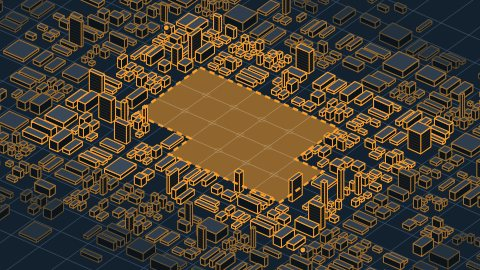
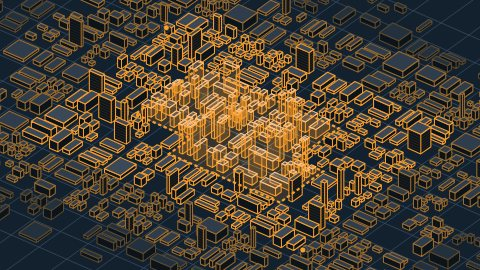
Docs and pictures follow: Rubik and Assistant, the thin line, glass buttons
DESIGN.md's front matter and prose, PRODUCT.md and the design-system notes now name Rubik and
Assistant, the 1.5px line, the 10px dot and the glass buttons (with a capsule radius). The
home page's filter toggle is glass like every other button. The book's downloadable
backgrounds are drawn again: the plan one now shows its proposed buildings see-through.

Changed region(s): [[0.2812, 0.2074, 0.7188, 0.7704], [0.625, 0.9185, 0.6562, 0.9481], [0.3438, 0.0889, 0.375, 0.1185]]

diff --git a/wp-content/themes/log/src/styles/buttons.css b/wp-content/themes/log/src/styles/buttons.css
@@ -10,7 +10,7 @@
  * the legend; --k-edge the thin edge. With no backdrop filter, or for a visitor who asked for less transparency,
  * the glass is simply solid.
  */
-.btn, .menu-toggle, .gantry__close {
+.btn, .menu-toggle, .gantry__close, .hero-filter-toggle {
   --k-tint: 84%;
   --k-rim: color-mix(in srgb, var(--night-ink) 50%, transparent);
   --k-edge: color-mix(in srgb, var(--night-ink) 16%, transparent);
@@ -25,17 +25,17 @@
     0 8px 20px -14px color-mix(in srgb, var(--night-deep) 55%, transparent);
   transition: background-color .45s var(--ease-out), color .35s var(--ease-out), box-shadow .45s var(--ease-out), scale .5s var(--ease-out);
 }
-.btn::before, .menu-toggle::before, .gantry__close::before {
+.btn::before, .menu-toggle::before, .gantry__close::before, .hero-filter-toggle::before {
   content: ''; position: absolute; z-index: -1; inset: 0; border-radius: inherit; pointer-events: none;
   background: radial-gradient(9rem circle at var(--lx, 50%) var(--ly, 0%), color-mix(in srgb, var(--night-ink) 42%, transparent), transparent 70%);
   opacity: 0; transition: opacity .45s var(--ease-out);
 }
-.btn:is(:hover, :focus-visible)::before, .menu-toggle:is(:hover, :focus-visible)::before, .gantry__close:is(:hover, :focus-visible)::before { opacity: 1; }
+.btn:is(:hover, :focus-visible)::before, .menu-toggle:is(:hover, :focus-visible)::before, .gantry__close:is(:hover, :focus-visible)::before, .hero-filter-toggle:is(:hover, :focus-visible)::before { opacity: 1; }
 .btn:active, .menu-toggle:active, .gantry__close:active { scale: .97; }
 /* On night grounds the everyday button is smoked glass with a white legend; a navy one would vanish there. */
 :is(.sheet--night, .section--control, .section--night, .site-footer, .gantry, .hero, .opener, body.page-template-page-control) .btn:not(.btn--primary, .btn--works, .btn--ghost, .btn--day) { --k-ground: var(--night); --k-tint: 42%; --k-edge: color-mix(in srgb, var(--night-ink) 30%, transparent); }
 @media (prefers-reduced-transparency: reduce) {
-  .btn, .menu-toggle, .gantry__close { --k-tint: 100%; -webkit-backdrop-filter: none; backdrop-filter: none; }
+  .btn, .menu-toggle, .gantry__close, .hero-filter-toggle { --k-tint: 100%; -webkit-backdrop-filter: none; backdrop-filter: none; }
 }
 
 /*

diff --git a/wp-content/themes/log/src/styles/hero.css b/wp-content/themes/log/src/styles/hero.css
@@ -283,7 +283,7 @@ body.admin-bar .hero { margin-top: calc(-1 * var(--wp-admin--admin-bar--height, 
   .hero-search__go { width: 52px; height: 46px; }
   .hero-search__go .arrow { width: 2.25rem; }
   .hero-suggest { top: auto; bottom: calc(100% + 8px); max-height: 50vh; }
-  .hero-filter-toggle { --k-ground: transparent; --k-edge: var(--hair-strong); display: inline-flex; align-items: center; gap: .6rem; min-height: 44px; padding: 0 1.25rem; border: 0; border-radius: var(--r-control); font: var(--type-legend); cursor: pointer; }
+  .hero-filter-toggle { --k-ground: var(--night); --k-tint: 42%; --k-line: var(--legend); --k-edge: color-mix(in srgb, var(--night-ink) 30%, transparent); position: relative; display: inline-flex; align-items: center; gap: .6rem; min-height: 44px; padding: 0 1.35rem; border: 0; font: var(--type-legend); cursor: pointer; }
   .hero-filter-toggle::after { content: ''; width: 12px; height: 8px; background: currentColor; -webkit-mask: var(--icon-caret) center / contain no-repeat; mask: var(--icon-caret) center / contain no-repeat; }
   .hero-filter-toggle__more { display: none; }
   .hero-filters { display: none; }

diff --git a/wp-content/themes/log/src/motion.js b/wp-content/themes/log/src/motion.js
@@ -37,7 +37,7 @@ export function initMotion() {
   footer();
   // After React Bits, in GSAP (src/fx): the main calls lean to the pointer; the client strip answers the scroll.
   magnet('.btn--primary, .btn--works, .site-header__talk');
-  liquid('.btn, .menu-toggle, .gantry__close');
+  liquid('.btn, .menu-toggle, .gantry__close, .hero-filter-toggle');
   velocityStrip('.logo-run');
 }
 

diff --git a/DESIGN.md b/DESIGN.md
@@ -35,75 +35,76 @@ colors:
   map-tree-lit: "#557466"
 typography:
   headline:
-    fontFamily: "'Ploni Tzar', 'Ploni', system-ui, sans-serif"
-    fontSize: "clamp(2.75rem, 1.75rem + 3.4vw, 4.5rem)"
-    fontWeight: 700
+    fontFamily: "'Rubik', 'Assistant', system-ui, sans-serif"
+    fontSize: "clamp(2.5rem, 1.6rem + 3vw, 4rem)"
+    fontWeight: 900
     lineHeight: 0.92
-    letterSpacing: "-0.03em"
+    letterSpacing: "-0.01em"
   section:
-    fontFamily: "'Ploni Tzar', 'Ploni', system-ui, sans-serif"
-    fontSize: "clamp(2.25rem, 1.5rem + 2.4vw, 3.5rem)"
-    fontWeight: 700
+    fontFamily: "'Rubik', 'Assistant', system-ui, sans-serif"
+    fontSize: "clamp(2rem, 1.35rem + 2.1vw, 3.25rem)"
+    fontWeight: 900
     lineHeight: 0.92
-    letterSpacing: "-0.03em"
+    letterSpacing: "-0.01em"
   row:
-    fontFamily: "'Ploni Tzar', 'Ploni', system-ui, sans-serif"
+    fontFamily: "'Assistant', system-ui, sans-serif"
     fontSize: "clamp(2rem, 1.5rem + 1.1vw, 2.5rem)"
-    fontWeight: 700
+    fontWeight: 800
     lineHeight: 1.02
-    letterSpacing: "-0.02em"
+    letterSpacing: "-0.01em"
   subhead:
-    fontFamily: "'Ploni Tzar', 'Ploni', system-ui, sans-serif"
+    fontFamily: "'Assistant', system-ui, sans-serif"
     fontSize: "clamp(1.5rem, 1.3rem + .5vw, 1.75rem)"
-    fontWeight: 700
+    fontWeight: 800
     lineHeight: 1.02
-    letterSpacing: "-0.02em"
+    letterSpacing: "-0.01em"
   figure:
-    fontFamily: "'Ploni', system-ui, sans-serif"
-    fontSize: "clamp(2.75rem, 1.75rem + 3.4vw, 4.5rem)"
+    fontFamily: "'Assistant', system-ui, sans-serif"
+    fontSize: "clamp(2.5rem, 1.6rem + 3vw, 4rem)"
     fontWeight: 300
     lineHeight: 1
-    letterSpacing: "-0.045em"
+    letterSpacing: "-0.02em"
     fontFeature: "tnum"
   title:
-    fontFamily: "'Ploni Tzar', 'Ploni', system-ui, sans-serif"
+    fontFamily: "'Assistant', system-ui, sans-serif"
     fontSize: "1.5rem"
-    fontWeight: 500
+    fontWeight: 600
     lineHeight: 1.15
-    letterSpacing: "-0.01em"
+    letterSpacing: "0"
   legend:
-    fontFamily: "'Ploni Tzar', 'Ploni', system-ui, sans-serif"
-    fontSize: "1.125rem"
-    fontWeight: 500
+    fontFamily: "'Assistant', system-ui, sans-serif"
+    fontSize: "1.1875rem"
+    fontWeight: 600
     lineHeight: 1.2
   body:
-    fontFamily: "'Ploni', system-ui, sans-serif"
-    fontSize: "1.125rem"
+    fontFamily: "'Assistant', system-ui, sans-serif"
+    fontSize: "1.1875rem"
     fontWeight: 400
     lineHeight: 1.6
   prose:
-    fontFamily: "'Ploni', system-ui, sans-serif"
-    fontSize: "1.25rem"
+    fontFamily: "'Assistant', system-ui, sans-serif"
+    fontSize: "1.3125rem"
     fontWeight: 400
     lineHeight: 1.7
   label:
-    fontFamily: "'Ploni Tzar', 'Ploni', system-ui, sans-serif"
-    fontSize: "0.9375rem"
-    fontWeight: 500
+    fontFamily: "'Assistant', system-ui, sans-serif"
+    fontSize: "1rem"
+    fontWeight: 600
     lineHeight: 1.4
   caption:
-    fontFamily: "'Ploni Tzar', 'Ploni', system-ui, sans-serif"
-    fontSize: "0.875rem"
-    fontWeight: 500
+    fontFamily: "'Assistant', system-ui, sans-serif"
+    fontSize: "0.9375rem"
+    fontWeight: 600
     lineHeight: 1.3
 rounded:
   control: "8px"
+  button: "999px"
   surface: "0"
   map-frame: "26px"
 spacing:
-  line: "2px"
+  line: "1.5px"
   rule: "1px"
-  dot: "12px"
+  dot: "10px"
   gutter: "clamp(16px, 4vw, 56px)"
   section: "clamp(56px, 7vw, 108px)"
   header: "84px"
@@ -114,19 +115,19 @@ components:
     backgroundColor: "{colors.night}"
     textColor: "{colors.night-ink}"
     typography: "{typography.legend}"
-    rounded: "{rounded.control}"
+    rounded: "{rounded.button}"
     padding: "0.8em 1.65em"
   button-primary:
     backgroundColor: "{colors.works}"
     textColor: "{colors.sign-ink}"
     typography: "{typography.legend}"
-    rounded: "{rounded.control}"
+    rounded: "{rounded.button}"
     padding: "0.8em 1.65em"
   button-ghost:
     backgroundColor: "transparent"
     textColor: "{colors.ink}"
     typography: "{typography.legend}"
-    rounded: "{rounded.control}"
+    rounded: "{rounded.button}"
     padding: "0.8em 1.65em"
   field:
     backgroundColor: "{colors.paper-2}"
@@ -217,26 +218,29 @@ The night family is `night-*`; the older `plate-*` and `legend-*` names are alia
 
 ## Typography
 
-**One family.** Ploni Tzar for headlines and labels, Ploni for everything else. Both are licensed and self-hosted.
+**Two families, as LOG approved them in the brand book (v3).** Rubik for the headline, Assistant for everything else. Both are open-source (OFL) variable fonts, self-hosted in `assets/fonts/`, a Hebrew and a Latin file each. Ploni, used from 18.11 to 25.11.2026, is gone: LOG asked to return to the book's faces.
 
-Three weights, no more: a heavy headline, regular text, light figures.
-- **Ploni Tzar Bold 700** (`--font-headline`): headlines only. Two to four words, closed by a period.
-- **Ploni Tzar Medium 500** (`--font-display`): subheads and labels: buttons, captions, counts, the page number.
-- **Ploni Regular 400** (`--font-text`): reading.
-- **Ploni Light 300** (`--font-figure`): big numbers and numbering. Not sentences.
+Five voices, each with one job:
+- **Rubik Black 900** (`--font-headline`, `--fw-headline`): headlines only. Two to four words, closed by the orange period, which is drawn round (Rubik's own period is a soft square).
+- **Assistant ExtraBold 800** (`--font-display`, `--fw-subhead`): subheads, h3 and h4, quotes.
+- **Assistant SemiBold 600** (`--font-display`, `--fw-medium`): labels: buttons, captions, counts, the page number. Assistant's 500 reads as regular, so labels never use it.
+- **Assistant Regular 400** (`--font-text`): reading.
+- **Assistant Light 300** (`--font-figure`): big numbers and numbering. Not sentences.
+
+Rubik is wide and heavy where the narrow face before it was not: headlines top out at 64 and keep their tracking near zero (`--track-headline` -0.01em). Assistant sets small for its size: body text is 19px.
 
 ### Hierarchy
-One scale, in `tokens.json`: sizes `--fs-*`, weights `--fw-*`, leading `--lh-*`, tracking `--track-*`, and `--type-*` roles in tokens.css to use with `font:`. No stylesheet sets a size outside it. The book gives the site's sizes: headline 56 to 72, subhead 28, body 18, caption 14, chapter label 15. Sizes below run from a 375px phone to a 1440px screen.
+One scale, in `tokens.json`: sizes `--fs-*`, weights `--fw-*`, leading `--lh-*`, tracking `--track-*`, and `--type-*` roles in tokens.css to use with `font:`. No stylesheet sets a size outside it. The book's type sheet (chapter 06) lists every level with its size on the site, a slide and a post. Sizes below run from a 375px phone to a 1440px screen.
 
-- **h1** `--fs-h1` (44 → 72px): page titles, the home headline, the footer's "בואו נדבר". Big figures use the size in Ploni Light.
-- **h2** `--fs-h2` (36 → 56px): section titles.
+- **h1** `--fs-h1` (40 → 64px): page titles, the home headline, the footer's "בואו נדבר". Big figures use the size in Assistant Light.
+- **h2** `--fs-h2` (32 → 52px): section titles.
 - **h3** `--fs-h3` (32 → 40px): destination rows, lead cards, the build steps on the map.
 - **h4** `--fs-h4` (24 → 28px): card titles, steps, values, quotes.
-- **Title** `--fs-title` 24px, Ploni Tzar 500.
-- **Lead** `--fs-lead` 20px: ledes and prose.
-- **Base** `--fs-base` 18px: body and every label on a control.
-- **Small** `--fs-small` 15px: captions, meta, field labels.
-- **Micro** `--fs-micro` 14px: map labels, table heads. Nothing is smaller, apart from MapLibre's attribution.
+- **Title** `--fs-title` 24px, Assistant SemiBold.
+- **Lead** `--fs-lead` 21px: ledes and prose.
+- **Base** `--fs-base` 19px: body and every label on a control.
+- **Small** `--fs-small` 16px: captions, meta, field labels.
+- **Micro** `--fs-micro` 15px: map labels, table heads. Nothing is smaller, apart from MapLibre's attribution.
 
 ### Named Rules
 **The Period Rule.** A headline ends in a period, set by `log_title()`; one that ends in ? or ! keeps it. Names (a project, a job, a person) are not headlines and take none. The page's main headline closes on the orange period: that is the page's dot. On the home page every chapter is a screen of its own, as a sheet is in the book, so each chapter's headline closes on the orange period too. The last word and its period are tied (`.title-end`), so a period never wraps alone.
@@ -270,7 +274,7 @@ Breakpoints: 1180px (the two worlds lose their second line), 900px (header colla
 
 ## Shapes
 
-**One radius.** `--r-control` (8px) for what you press or type in: buttons, fields, chips, tags. The book allows a rounded corner only in a thin line, so nothing is a pill. Photographs, cards, sheets, dialogs and the projects map are square. The home map's frame (`--r-frame`) is the one exception: it is a sheet laid on the table that opens to the full window as the drive begins.
+**Two radii.** `--r-control` (8px) for what you type in and for chips and tags; `--r-button` (a capsule) for buttons, which are liquid glass (below). Photographs, cards, sheets, dialogs and the projects map are square. The home map's frame (`--r-frame`) is the one exception: it is a sheet laid on the table that opens to the full window as the drive begins.
 
 **Filled or outlined, never both.** A control is a ground with no line around it (navy, orange, white), or the thin line with no ground. A filled plate with a keyline inside it is the old language.
 
@@ -278,19 +282,19 @@ Breakpoints: 1180px (the two worlds lose their second line), 900px (header colla
 
 ### The Line System
 
-The book's thin line (chapter 07; `inc/lines.php`, `src/styles/lines.css`). Every line and circle has one weight, `--line-w` (2px), runs to the edge, and cuts square: lines cross, they never round off. Each kind marks one thing, and a line nobody can name the meaning of doesn't go on the page.
+The book's thin line (chapter 07; `inc/lines.php`, `src/styles/lines.css`). Every line and circle has one weight, `--line-w` (1.5px; 1.25 units on a book sheet): thin, so it reads as drawn, not built. It runs to the edge, and cuts square: lines cross, they never round off. Each kind marks one thing, and a line nobody can name the meaning of doesn't go on the page.
 
 - **Solid** (`log_line()`): what exists or was approved. Page structure, axes, a finished stage.
 - **Dashed** (`log_line( 'dashed' )`): only what doesn't exist yet, or a reference line such as an average. Never decoration, never on a photo, never around a person.
 - **Switch** (`log_line( 'switch', [ 'at' => 40 ] )`): grey until the point where LOG comes in, orange from there. Once per line, and only when it means something.
-- **Dot** (`log_line( 'dot' )`, `log_dot()`): the line ends in a filled orange dot, `--dot` 12px, no ring. One orange dot on a page; the headline's orange period is it. A second dot belongs only where two lines cross on a new screen (the footer), and on a map or a chart, where every dot is data.
+- **Dot** (`log_line( 'dot' )`, `log_dot()`): the line ends in a filled orange dot, `--dot` 10px, no ring. One orange dot on a page; the headline's orange period is it. A second dot belongs only where two lines cross on a new screen (the footer), and on a map or a chart, where every dot is data.
 - **Cross** (`log_line( 'cross' )`): a second line cuts straight through, the dot on the crossing.
 
 **The hair.** Between the rows of a list or a table the book draws a 1px grey rule (`--rule-w`, in `rule` or `hair`). It is never ink and never a frame. Everything else is `--line-w`.
 
 A circle is a line that closes (`log_circle()`), at the same weight however big it gets:
 
-- **Full:** a counted number in Ploni Light. Steps, map clusters, edge counters.
+- **Full:** a counted number in Assistant Light. Steps, map clusters, edge counters.
 - **Dashed:** what is planned and hasn't happened. Never around a person.
 - **Split:** a person: four quarters cut where the logo's O is cut, orange and grey in turn. Team cards.
 - **Halves:** a person in black only.
@@ -315,11 +319,11 @@ The small interface marks are drawn the same way, as masks in tokens.css: the ar
 ## Components
 
 ### Buttons
-One family: at least 52px tall, Ploni Tzar 500 at 18px, 0.8em by 1.65em padding.
-- **Everyday (`.btn`):** filled navy, white label. On a night ground it is outlined in white instead.
-- **Primary (`.btn--primary`, `.btn--works`):** filled orange, ink label. One per context.
-- **Ghost (`.btn--ghost`):** outlined in the thin line, ink label.
-- **Hover / focus:** filled buttons turn white with ink; the outlined one turns navy. Arrows step forward.
+Liquid glass (LOG asked for it, 25.11.2026; `src/styles/buttons.css`, shared with the brand book's chapter 07). One family: a capsule at least 52px tall, Assistant SemiBold at the base size, 0.8em by 1.65em padding. The glass blurs what is behind it (`backdrop-filter`), carries a thin bright rim on its top edge and a soft light at its foot, and under the pointer a highlight follows it (`motion.js`, `liquid()`). With no backdrop filter, or `prefers-reduced-transparency`, it is solid.
+- **Everyday (`.btn`):** navy glass, white label. On a night ground, smoked glass.
+- **Primary (`.btn--primary`, `.btn--works`):** orange glass, ink label. One per context.
+- **Ghost (`.btn--ghost`):** clear glass, ink label, on paper.
+- **Hover / focus:** the glass turns white with ink; the clear one turns navy. It presses in when clicked. Arrows step forward.
 - **Focus ring:** 3px outline, 3px offset, `--focus`. It is an accessibility mark, not a line of the language.
 
 ### The search and its filters (home)
@@ -374,7 +378,7 @@ What keeps it fast on a slow machine: transforms and opacity only; a piece held 
 - **Don't** recolour, stretch or redraw the logo, or use it as a graphic element, a frame or a background. The one exception is the home headline, where the logo's O turns between the words (`log_ring_glyph()`): the page opens on the roundabout that becomes that O, so it belongs to the opening. Itay's decision, 19.11.2026.
 - **Don't** put more than one orange dot on a page, apart from a map or a chart.
 - **Don't** run a line over a face.
-- **Don't** draw thick lines or filled frames. A rounded corner only in a thin line.
+- **Don't** draw thick lines or filled frames. A rounded corner only in a thin line, and on the glass buttons.
 - **Don't** let text leave its frame.
 - **Don't** put a ring around a dot.
 - **Don't** stop a line in the middle of the page without a reason.

diff --git a/.impeccable/surfaces/wp-content-themes-log-front-page-php.md b/.impeccable/surfaces/wp-content-themes-log-front-page-php.md
@@ -9,14 +9,14 @@ related_targets: ["wp-content/themes/log/src/styles/main.css","wp-content/themes
 
 Scope: the whole public site, home first. Mode: Persuade on home, projects, control, about, careers; Read on knowledge items and project stories; Operate on search, forms and filters.
 Audience: five audiences at equal weight (PRODUCT.md). Action on home: find a project on the map (search, filters, open a project) or take one of the two lanes (project management, the control company).
-Constraints: binding Ploni / Ploni Tzar, orange #F7931D, navy 3D map opening, final logo pending (slot). Itay rejected the boxed cartouche over the map (2026-10-22): the map leads, controls sit on it as small plates. Tokens stay swappable for TwoPointFour.
+Constraints: binding Rubik / Assistant (Ploni until 25.11.2026), orange #F7931D, navy 3D map opening, final logo pending (slot). Itay rejected the boxed cartouche over the map (2026-10-22): the map leads, controls sit on it as small plates. Tokens stay swappable for TwoPointFour.
 Unresolved: logo file; real photography; texts file.
 
 ## Direction contract
 
 THESIS: The site is Israel's guide-sign system for planning work: every page answers where, how far and which way. It refuses the consultancy default (render, centred headline, three service cards) and any panel that hides the map.
 
-OWN-WORLD: Navy guide plates (#13212f) with a 2px white keyline inset 5px and 10px corners; retroreflective white legend; works-zone orange #F7931D for LOG's active work and every active state; road-paper day ground for reading pages. One authored guide-sign arrow. Route shields carry page and section numbers. Ploni Tzar legends, tabular distances.
+OWN-WORLD: Navy guide plates (#13212f) with a 2px white keyline inset 5px and 10px corners; retroreflective white legend; works-zone orange #F7931D for LOG's active work and every active state; road-paper day ground for reading pages. One authored guide-sign arrow. Route shields carry page and section numbers. Rubik legends, tabular distances.
 
 STORY: The visitor sees LOG's real projects standing on the map, reads how many and where, picks a destination or one of the two lanes, and every later page keeps saying where they are and which way is forward.
 

diff --git a/PRODUCT.md b/PRODUCT.md
@@ -46,7 +46,7 @@ Two separate worlds under one name: project management at the authority and comp
 
 Binding (confirmed by Itay, 2026-10-21):
 
-- Fonts: Ploni (text) and Ploni Tzar (display), licensed, self-hosted in the theme.
+- Fonts: Rubik (headlines) and Assistant (everything else), the faces LOG approved in the v3 brand book; open-source (OFL), self-hosted in the theme.
 - LOG orange #F89E2D (from the brand book) as the brand color.
 - The dark navy 3D map as the home page opening (navy plate, orange buildings, white pins), with marseille.laphase5.com as the reference bar.
 - The final LOG logo (file still to be supplied; the theme currently uses a placeholder ring wordmark).
